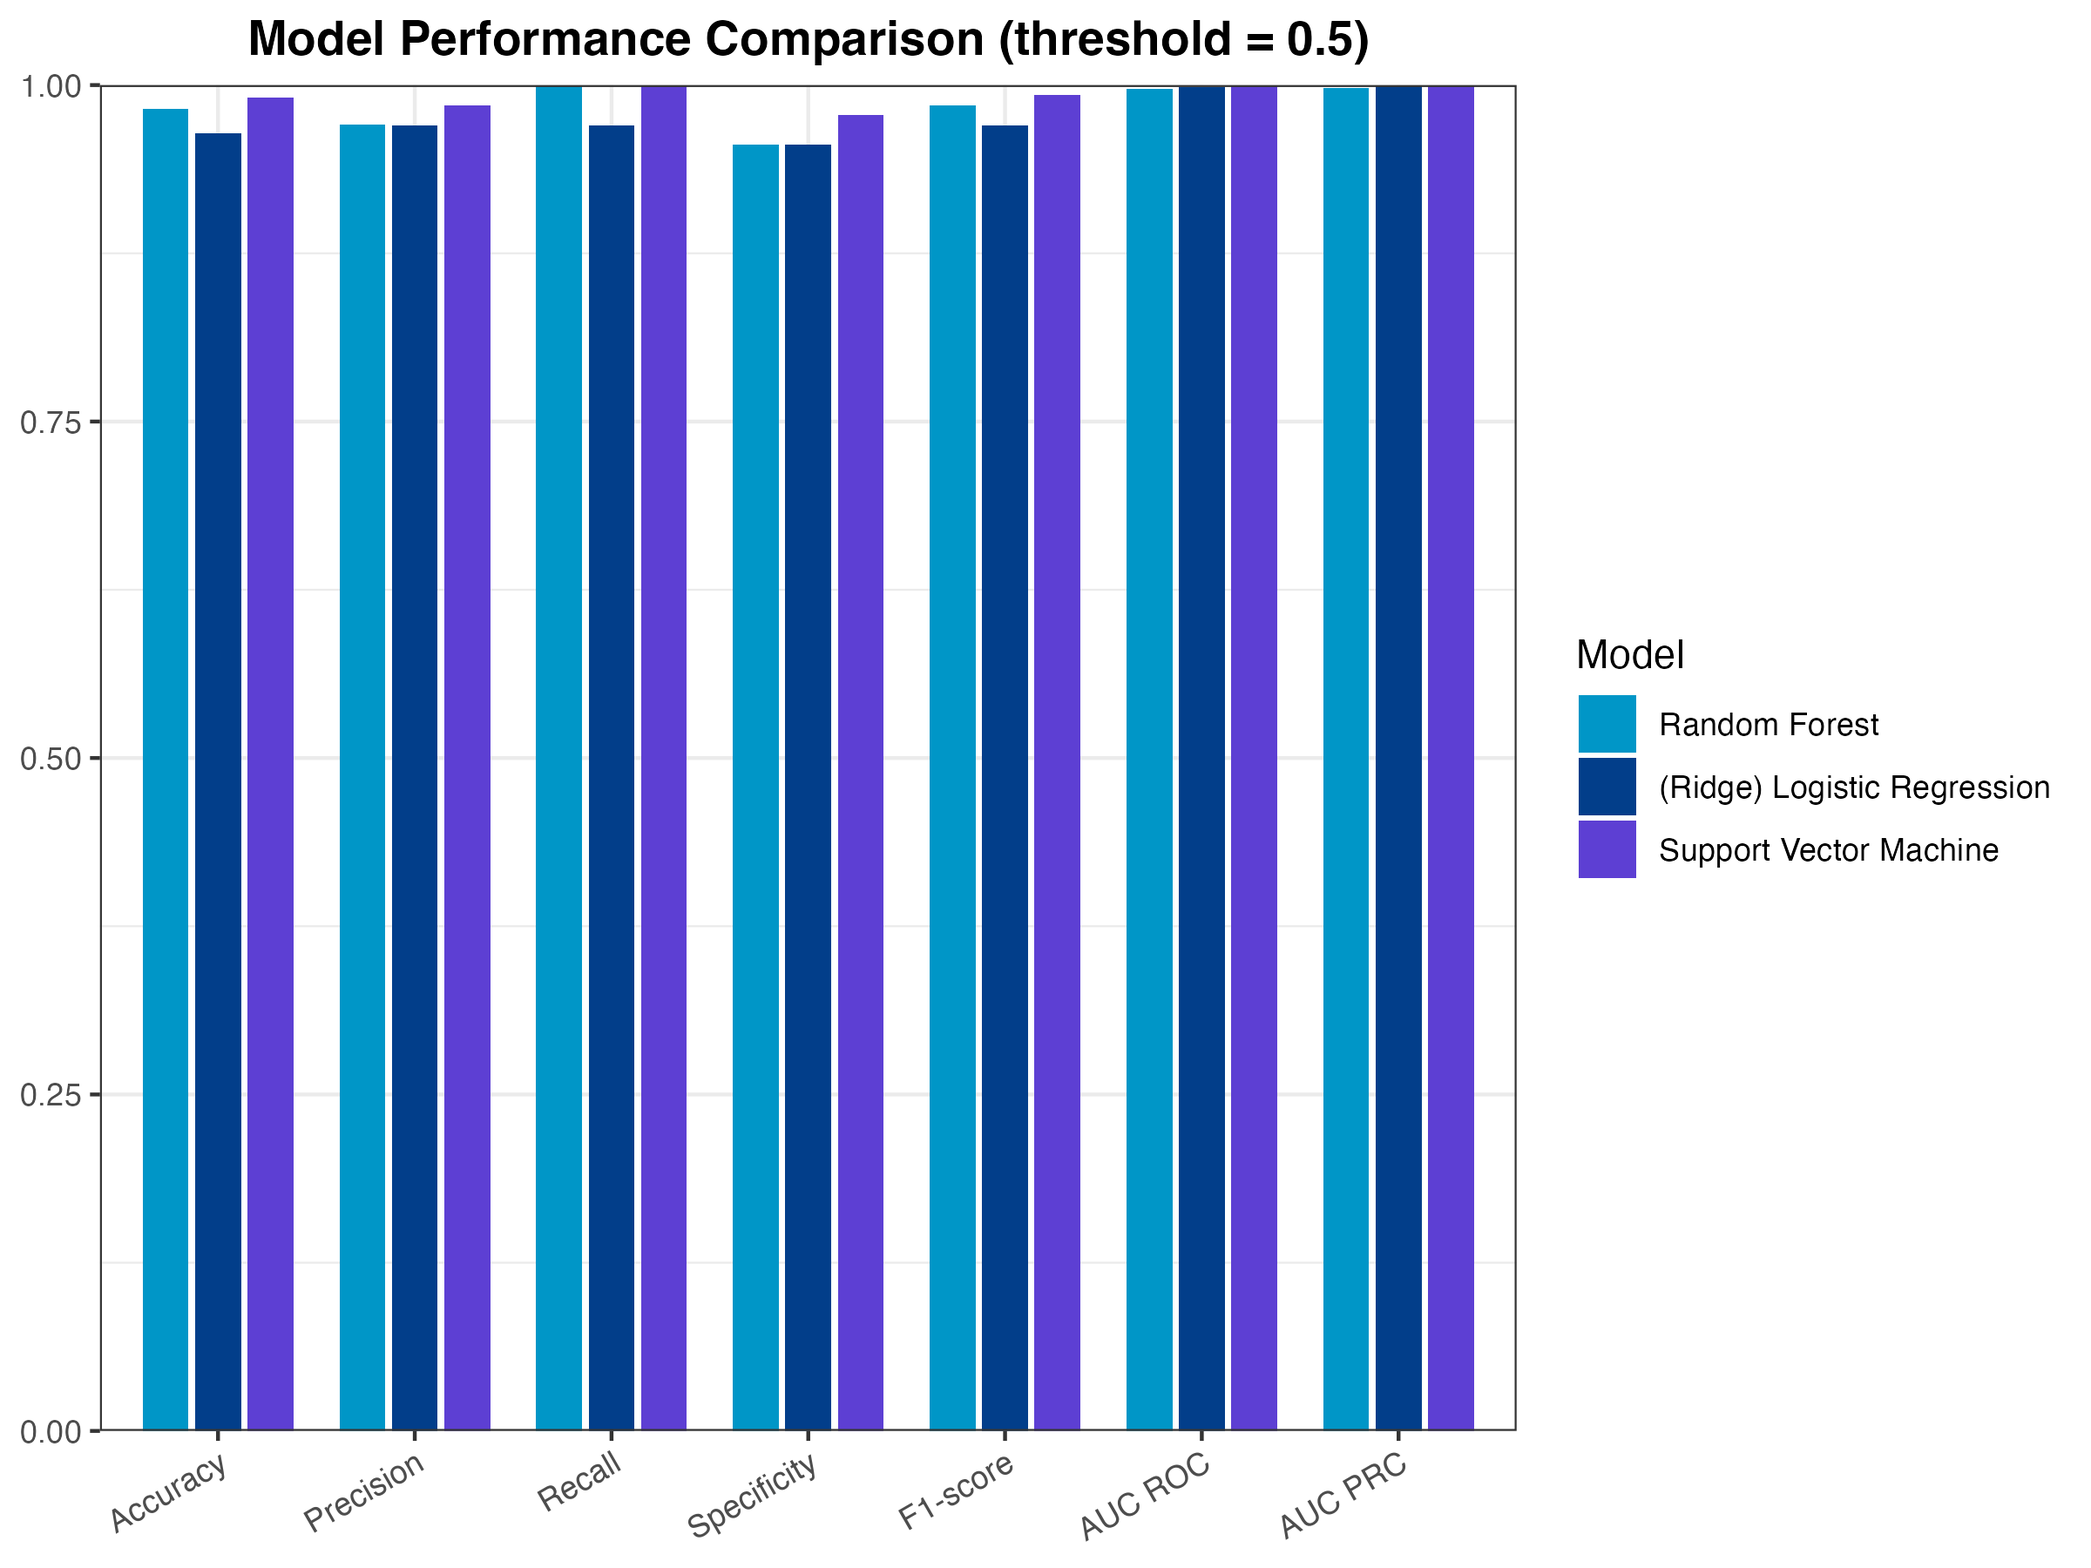
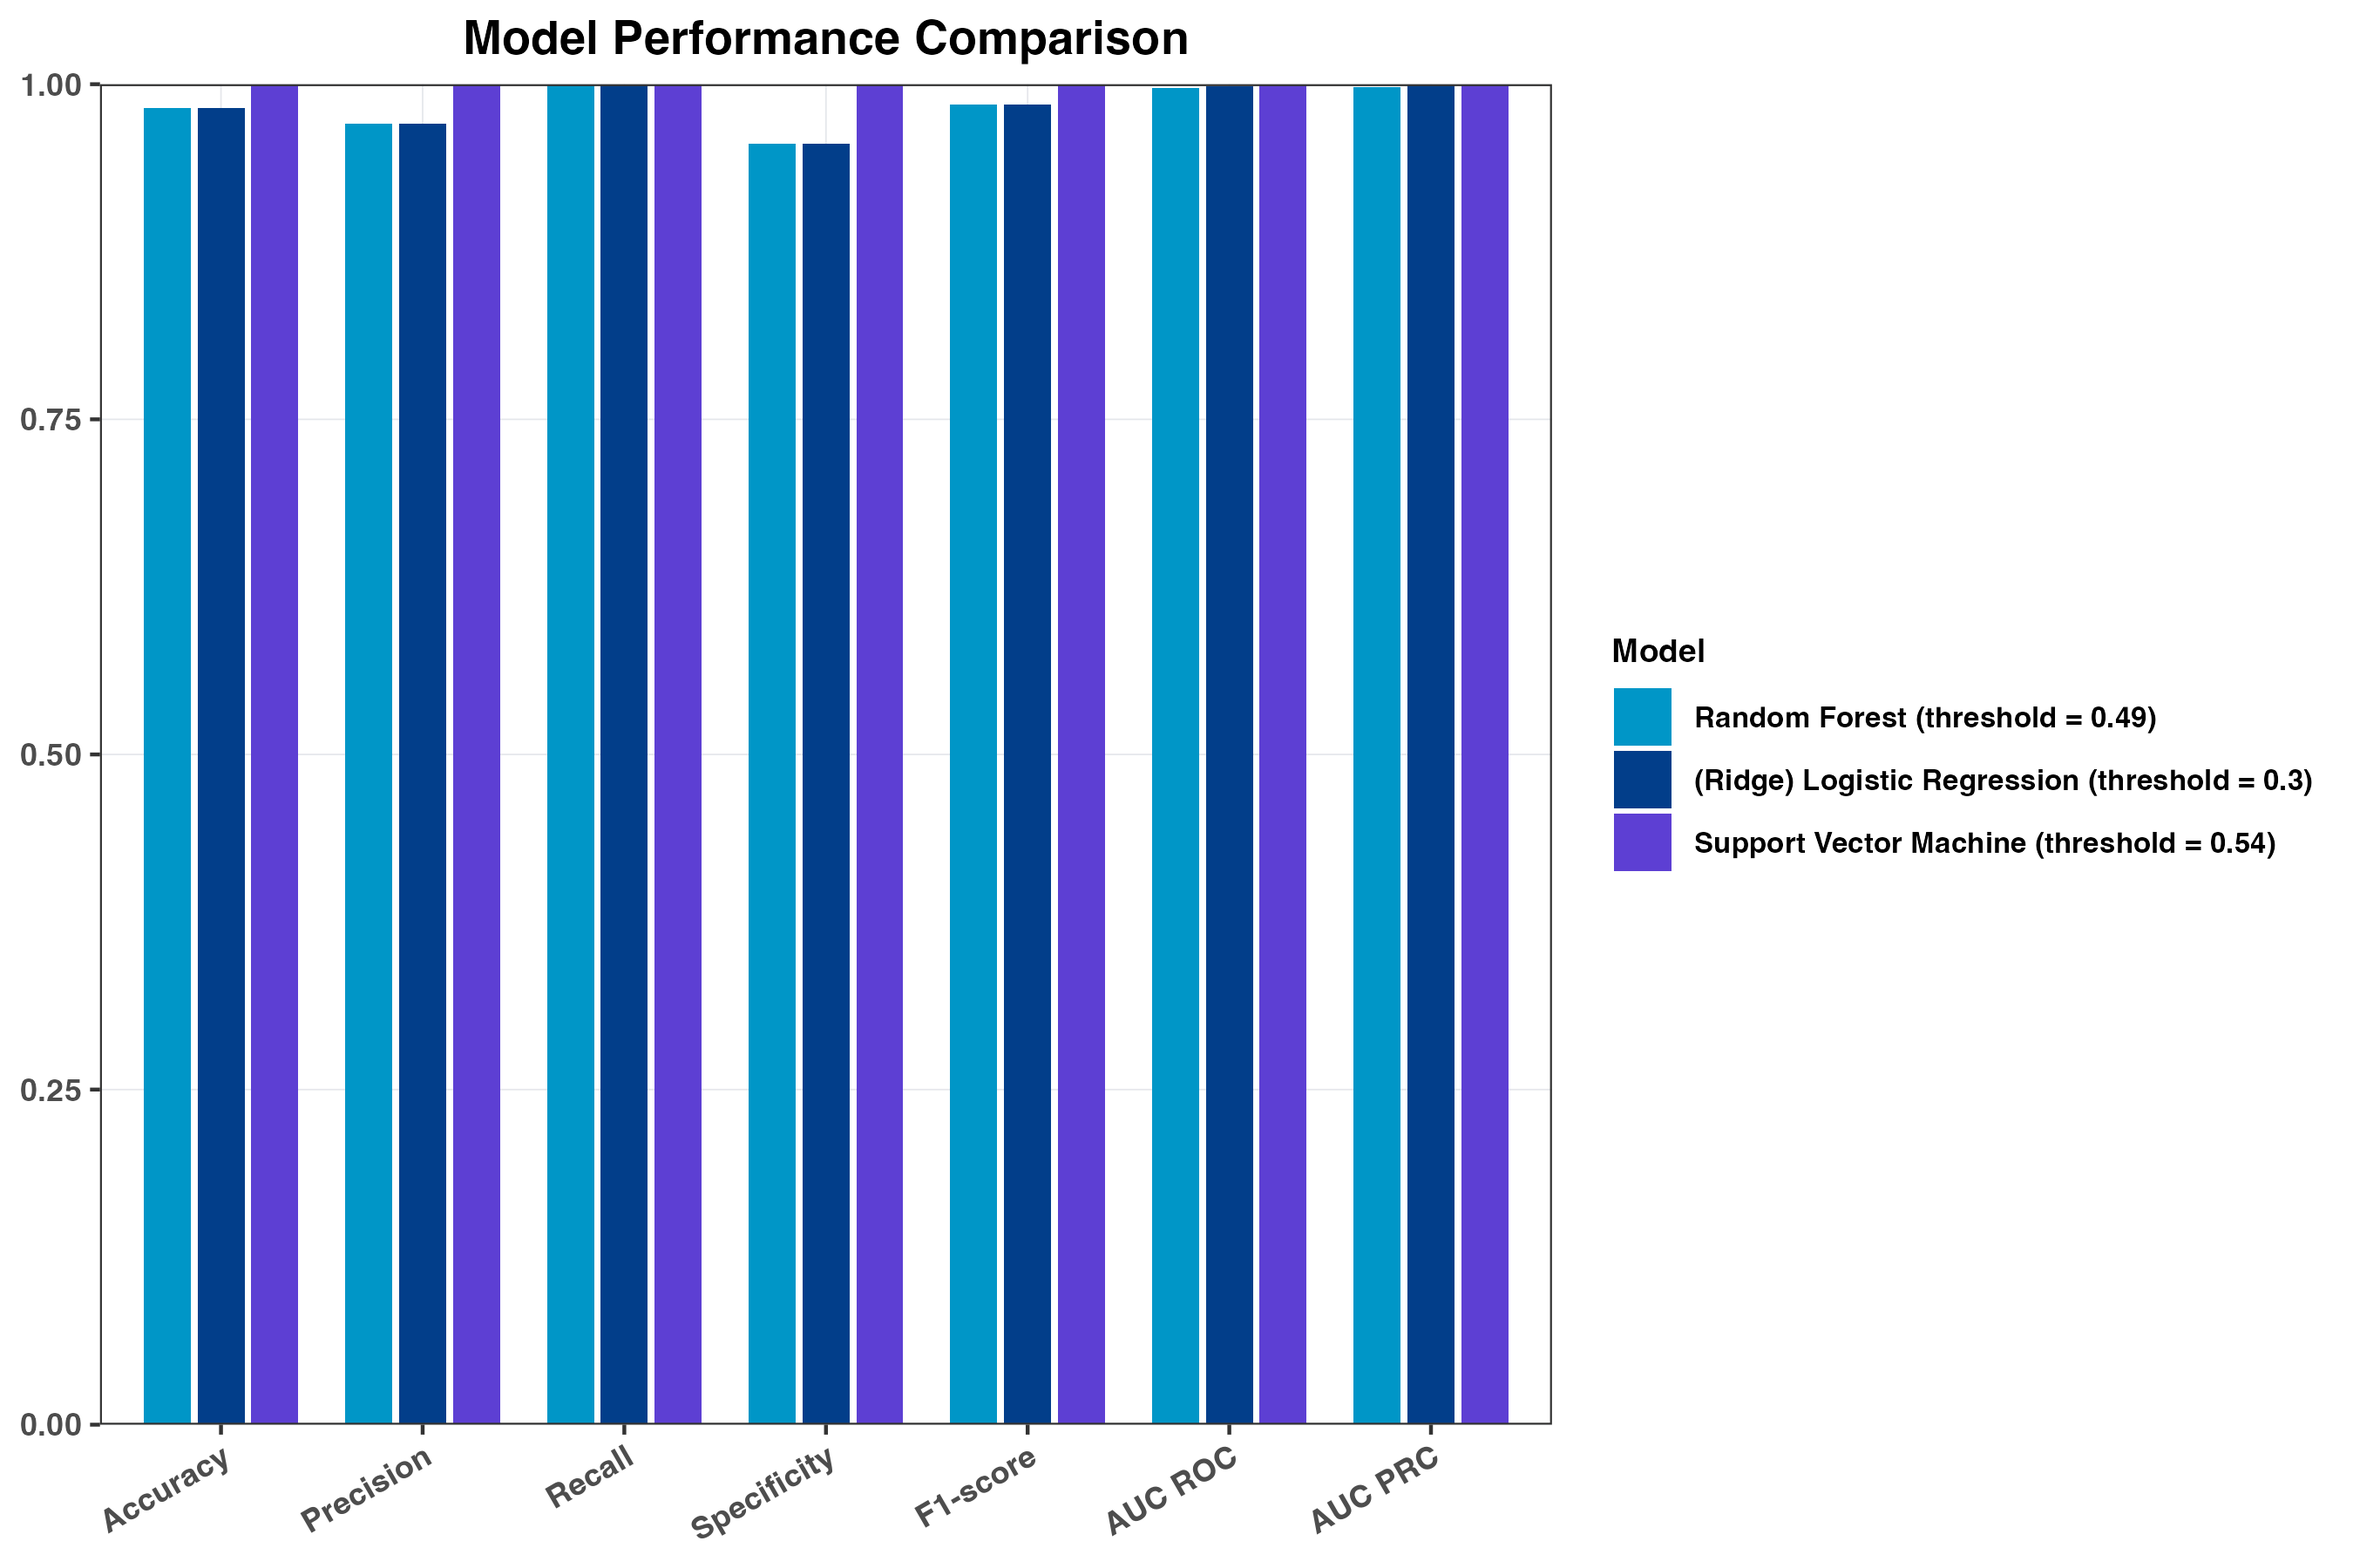
optimize comparison plots & updata comparison plot in README.md

diff --git a/README.md b/README.md
@@ -215,7 +215,7 @@ plot
 
 ## Model Performance
 
-The plot summarised the robustness of our three models (under default threshold at 0.5).
+The plot summarised the robustness of our three models (under our recommended thresholds according to F1-Scores).
 
 <img src="inst/img/models.png"> 
 
